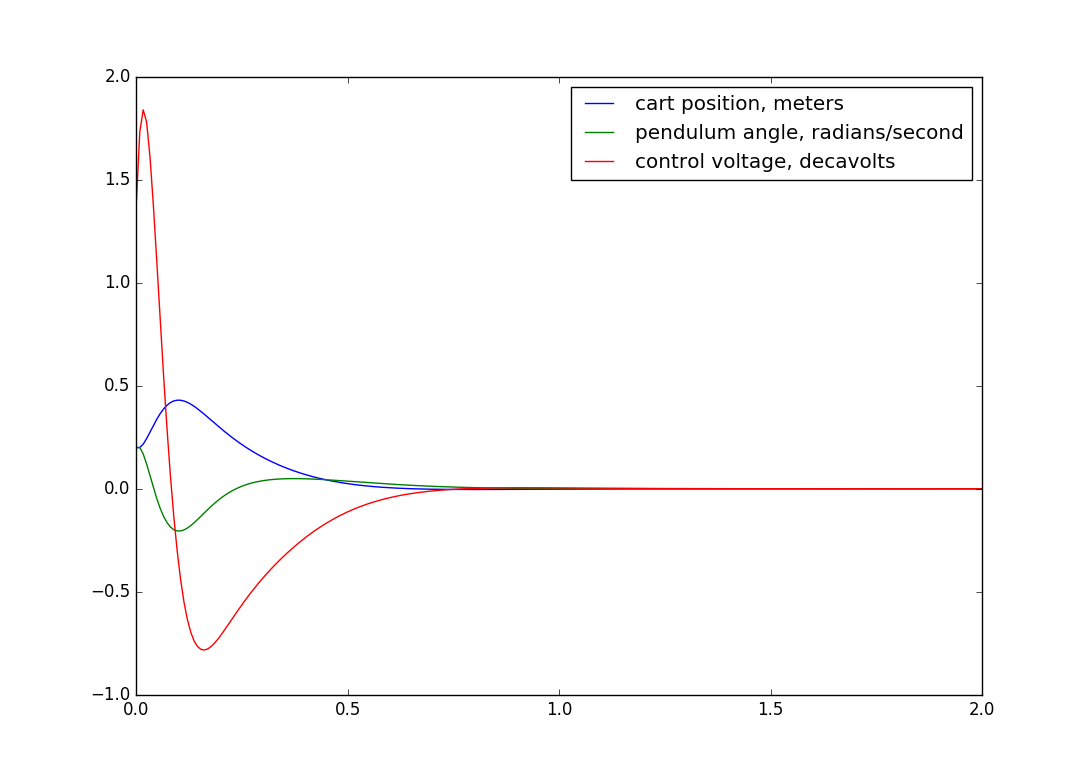
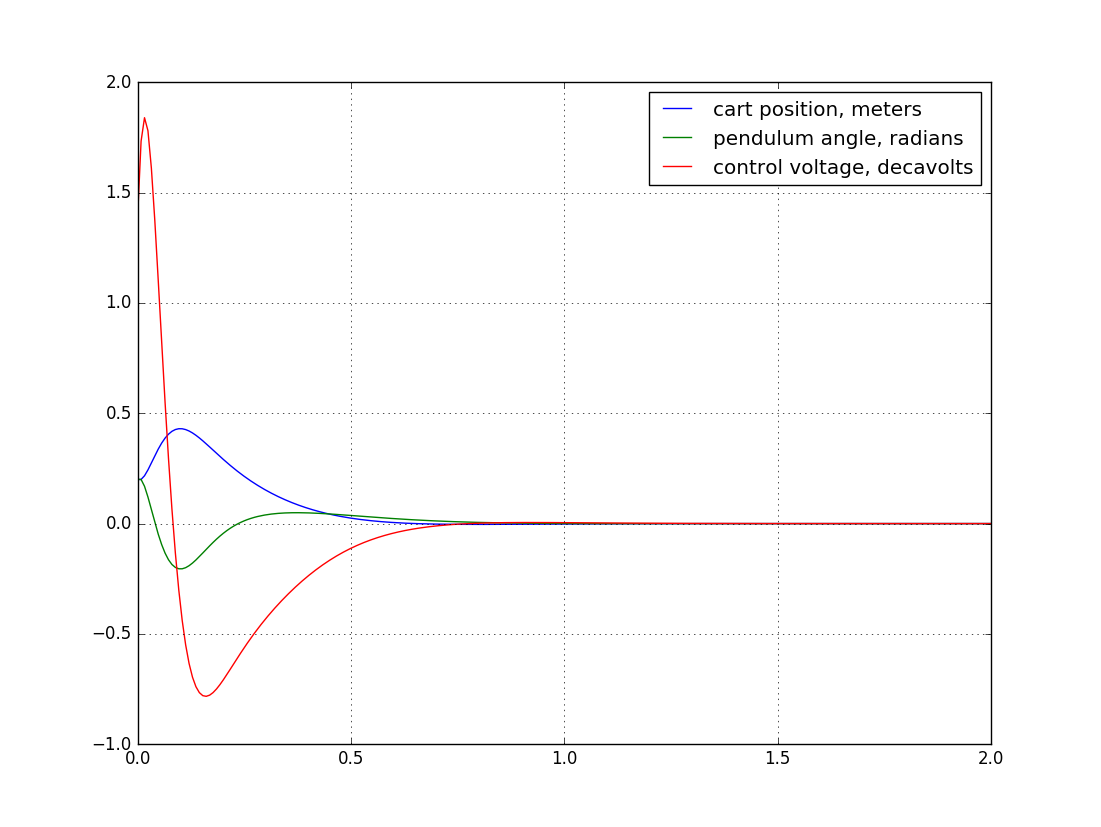
formulas

diff --git a/tutorials/pendulum/lqr.py b/tutorials/pendulum/lqr.py
@@ -56,9 +56,10 @@ for t in time:
     xk = A*xk + B*uk
 
 plt.plot(time, X, label="cart position, meters")
-plt.plot(time, T, label='pendulum angle, radians/second')
+plt.plot(time, T, label='pendulum angle, radians')
 plt.plot(time, U, label='control voltage, decavolts')
 
 plt.legend(loc='upper right')
+plt.grid()
 plt.show()
 
